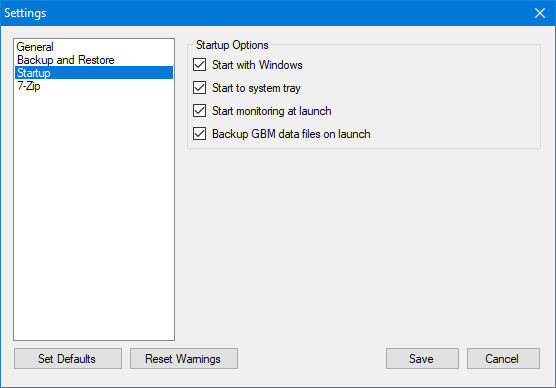
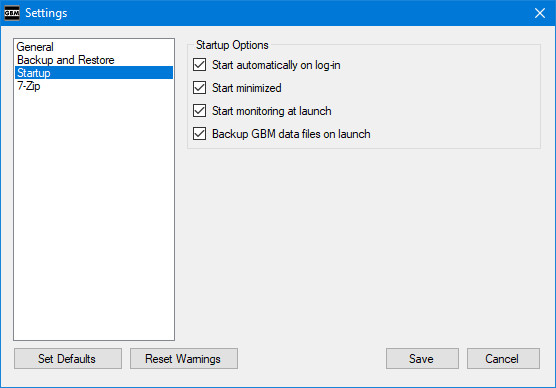
Added missing v118 changes to Settings section

Changed region(s): [[0.0, 0.0, 0.1223, 0.0619], [0.4281, 0.1546, 0.6115, 0.1856], [0.4281, 0.2165, 0.5504, 0.2474]]

diff --git a/manual.html b/manual.html
@@ -33,7 +33,7 @@
             Game Backup Monitor v1.1.8 Manual
           </div>
           <div class="pageSectionContent">
-            <h3 class="notop">Updated March 14, 2019</h3>
+            <h3 class="notop">Updated March 24, 2019</h3>
             <h3>Disclaimer:</h3>
             <p>This manual may contain information about features not available in the current stable release.</p>
             <p>If you are having a specific problem, please check the <a href="https://github.com/MikeMaximus/gbm/issues">issues</a> list.</p>
@@ -188,11 +188,11 @@
             <p>This will require GBM to show a confirmation before overwriting any backup file.</p>
             <h3>Startup</h3>        
             <img class="manual" src="images/manual/manual_23.jpg" width="556" height="388" alt="Settings" />
-            <h4>Start with Windows:</h4>
-            <p>This indicates if you want GBM to start automatically when Windows starts. This setting applies to the current user only. This setting is disabled in Linux.</p>
-            <p>This setting will not function correctly if GBM is flagged to "Run as Administrator".  If you'd like to start GBM with Windows as administrator you need to disable this setting and use the <b>Windows Task Scheduler</b>.  Please <a href="gbm_task_scheduler.html">follow these instructions</a> to setup a task for Game Backup Monitor.</p>
-            <h4>Start to system tray:</h4>
-            <p>This makes GBM minimize to the system tray immediately, instead of showing the main window when it starts. Recommended if you're using the Start with Windows setting. This setting is disabled in Linux.</p>
+            <h4>Start automatically on log-in:</h4>
+            <p>This indicates if you want GBM to start automatically when you log-in. This setting applies to the current user only.</p>
+            <p>In Windows, this setting will not function correctly if GBM is flagged to "Run as Administrator".  If you'd like to automatically start GBM as administrator you need to disable this setting and use the <b>Windows Task Scheduler</b>.  Please <a href="gbm_task_scheduler.html">follow these instructions</a> to setup a task for Game Backup Monitor.</p>
+            <h4>Start minimized:</h4>
+            <p>This makes GBM automatically hidden when it starts, instead of showing the main window. Recommended if you're using the "Start automatically on log-in" setting.</p>
             <h4>Start monitoring at launch:</h4>
             <p>GBM will start detecting games immediately with this setting enabled, otherwise game detection has to be manually started each time you load GBM.</p>            
             <h4>Backup GBM data files on launch:</h4>
